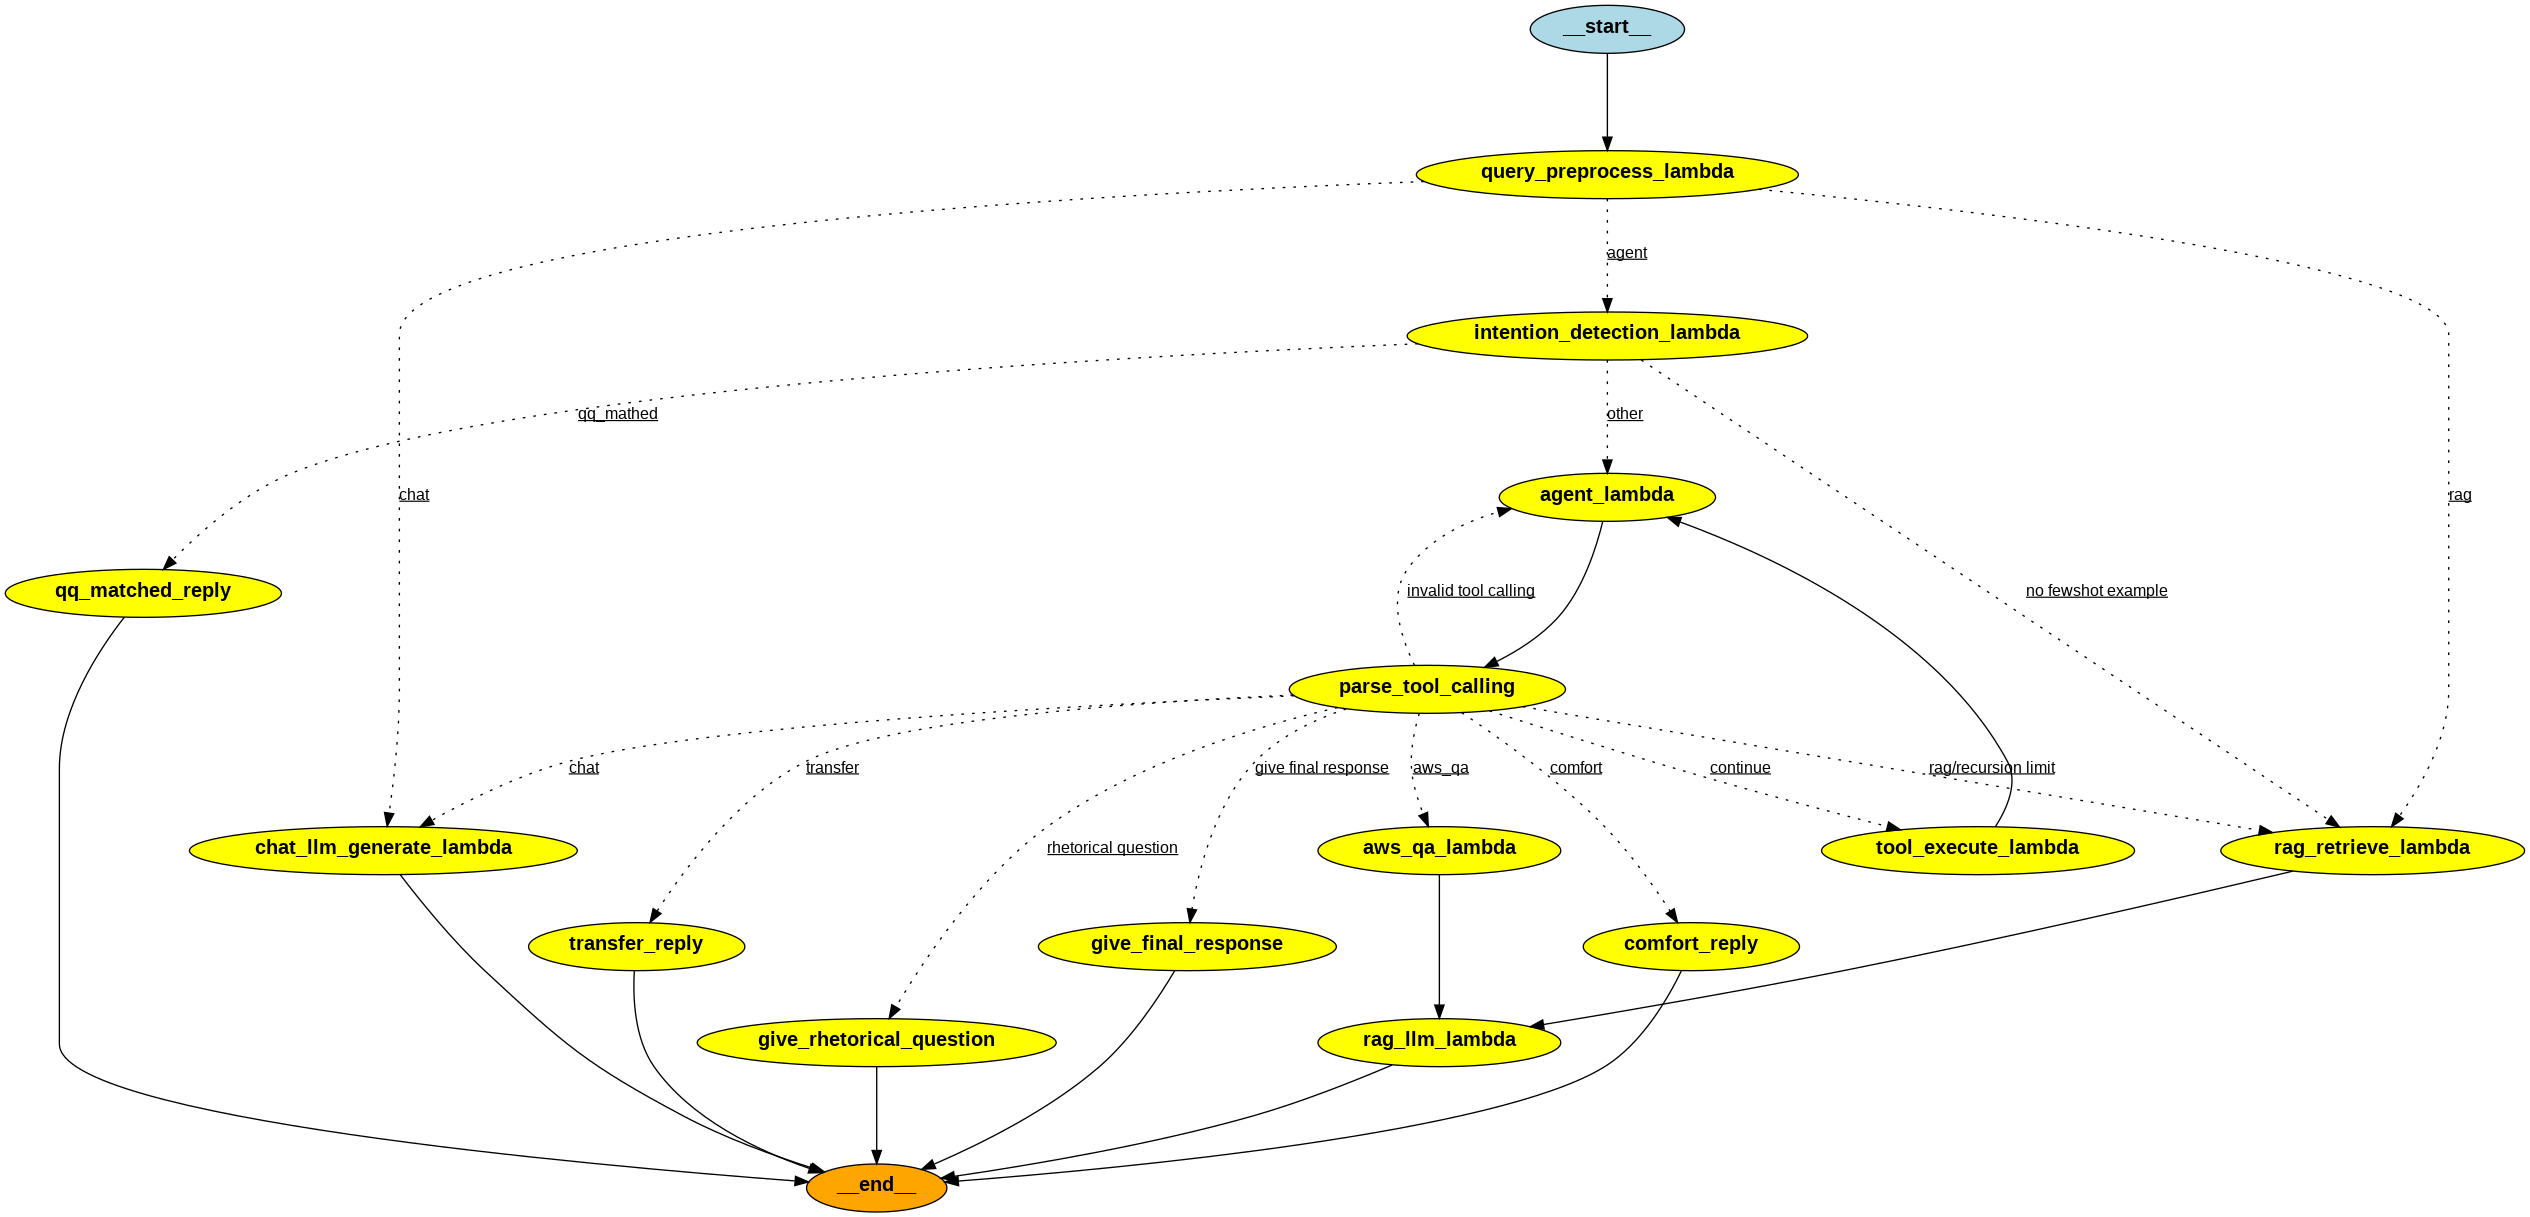
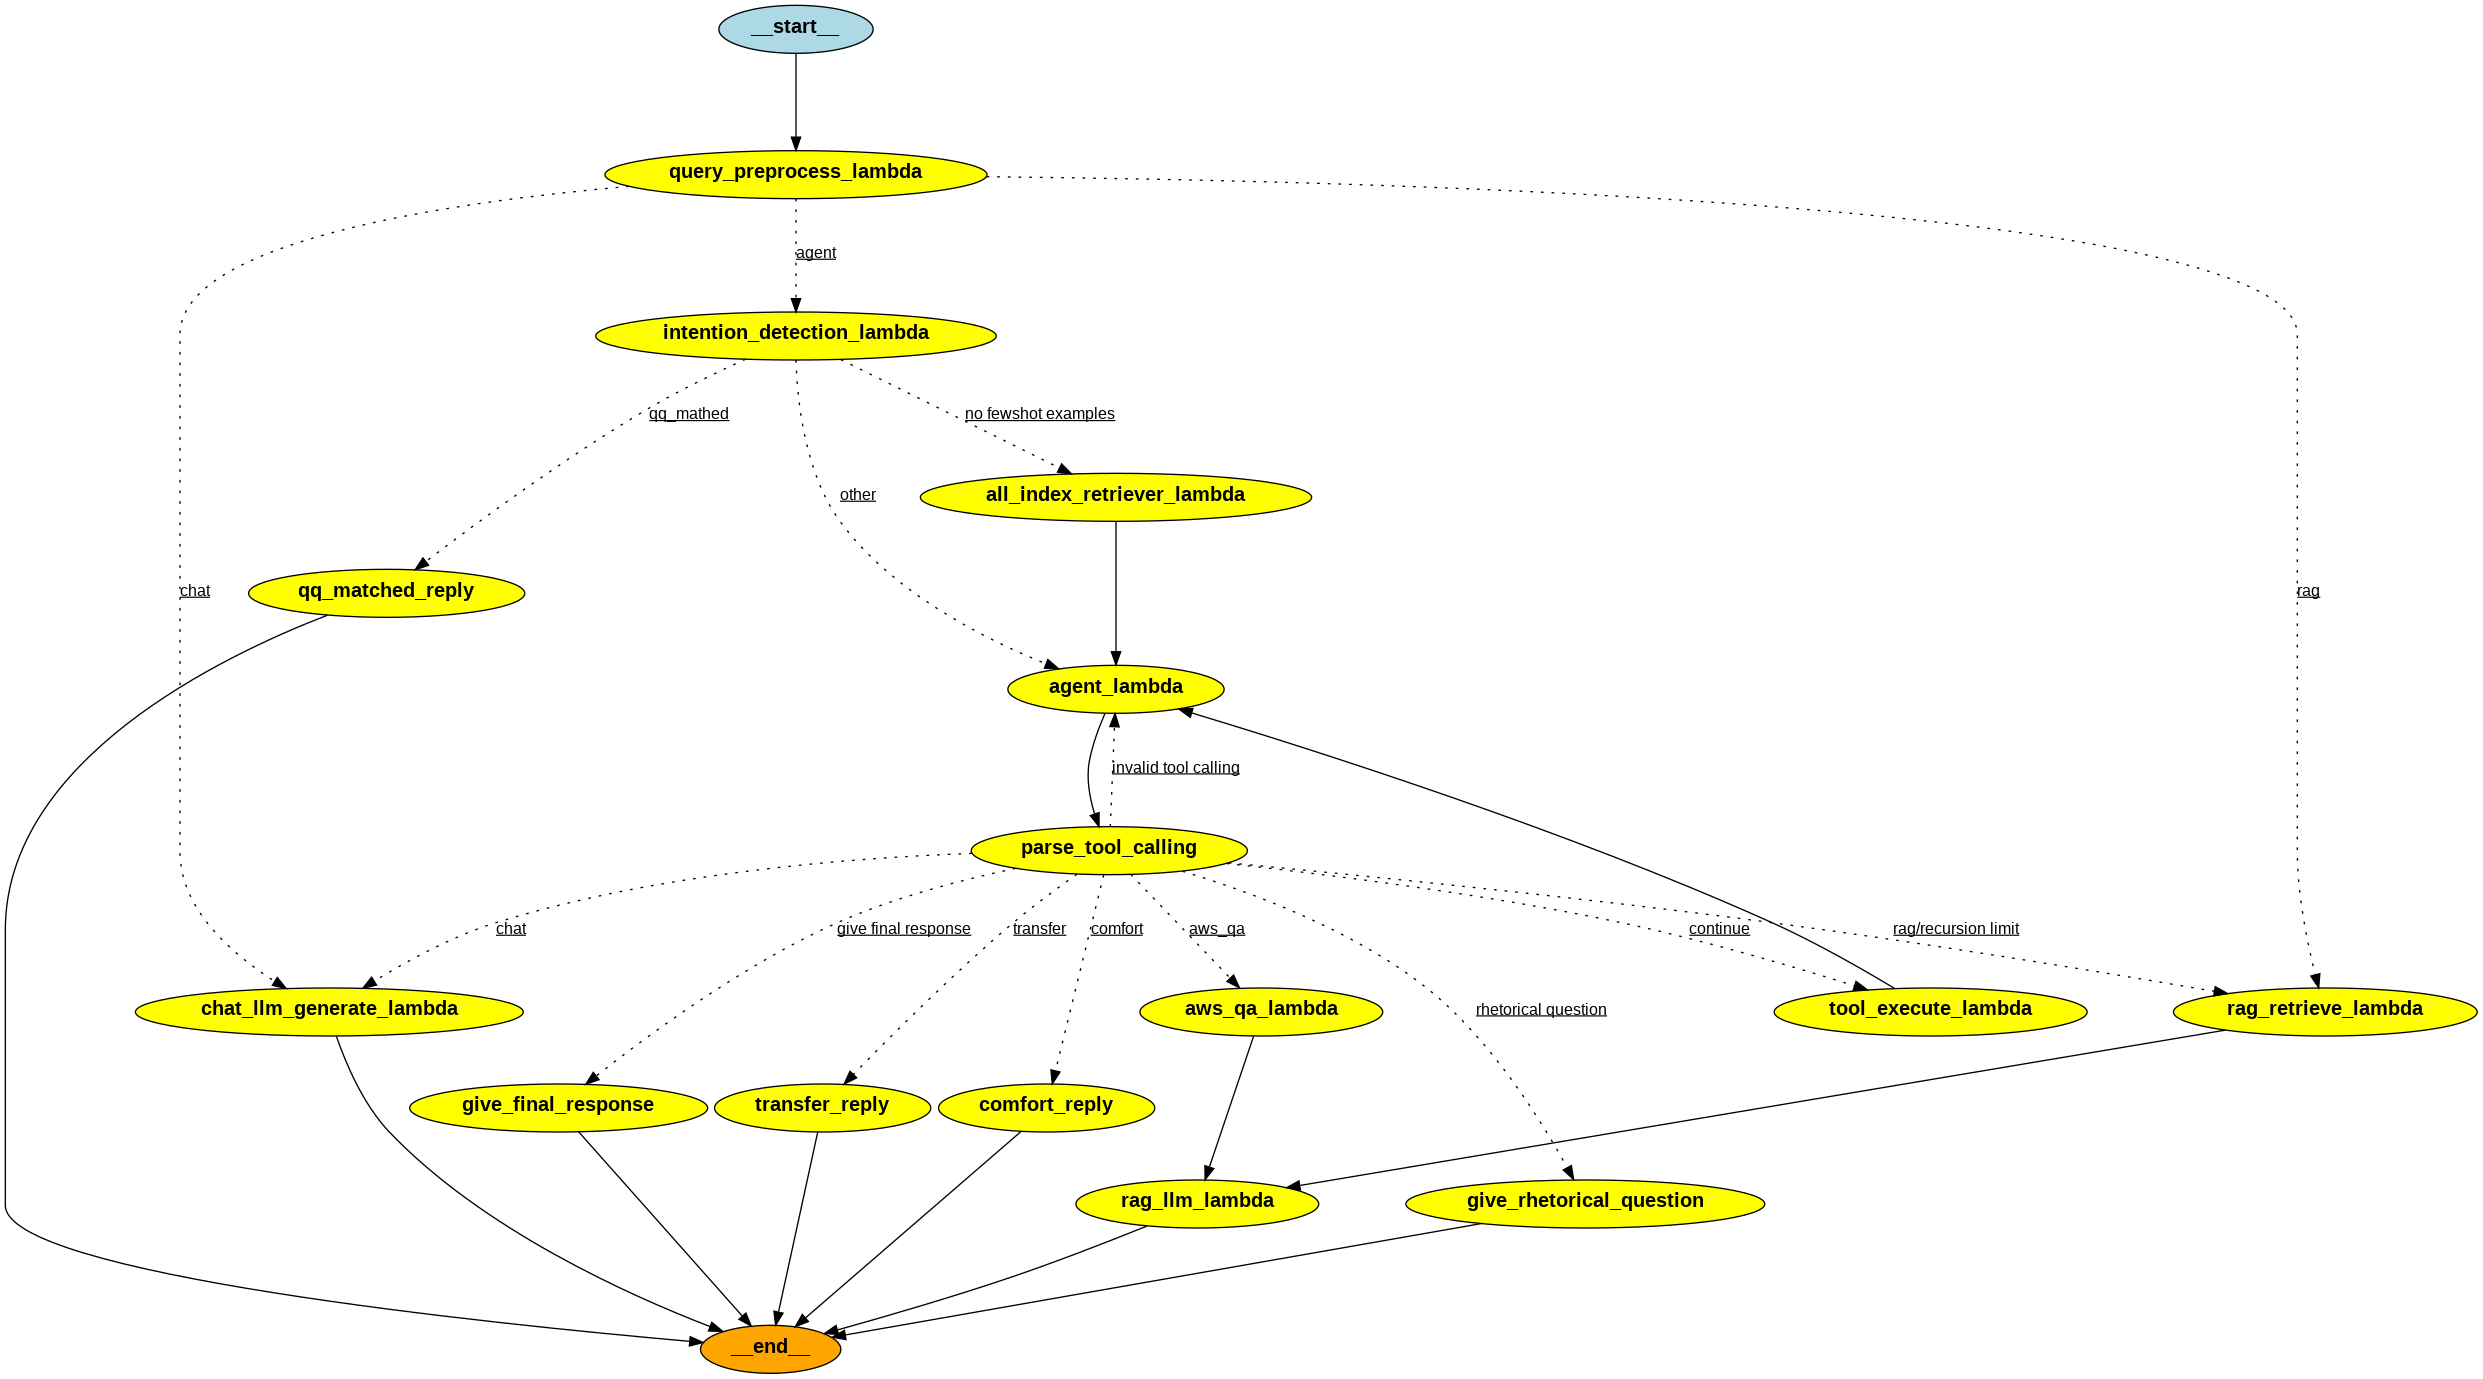
modify agent logic

diff --git a/source/lambda/online/lambda_main/main_utils/online_entries/common_entry.py b/source/lambda/online/lambda_main/main_utils/online_entries/common_entry.py
@@ -41,6 +41,7 @@ class ChatbotState(TypedDict):
     current_monitor_infos: str
     extra_response: Annotated[dict, update_nest_dict]
     contexts: str = None
+    all_index_retriever_contexts: list
     current_intent_tools: list  #
     current_tool_calls: list
     current_agent_tools_def: list[dict]
@@ -97,8 +98,30 @@ def intention_detection_lambda(state: ChatbotState):
     }
 
 
+
+@node_monitor_wrapper
+def all_index_retriever_lambda(state: ChatbotState):
+    # call retrivever
+    retriever_params = state["chatbot_config"]["all_index_retriever_config"]
+    retriever_params["query"] = state["query"]
+    output: str = invoke_lambda(
+        event_body=retriever_params,
+        lambda_name="Online_Function_Retriever",
+        lambda_module_path="functions.lambda_retriever.retriever",
+        handler_name="lambda_handler",
+    )
+    contexts = [doc["page_content"] for doc in output["result"]["docs"]]
+    send_trace("**all index retriever lambda result** \n" + ("\n"+"="*50 + "\n").join(contexts))
+    return {"all_index_retriever_contexts": contexts}
+
+
 @node_monitor_wrapper
 def agent_lambda(state: ChatbotState):
+    system_prompt = get_common_system_prompt()
+    all_index_retriever_contexts = state.get("all_index_retriever_contexts",[])
+    if all_index_retriever_contexts:
+        context = '\n\n'.join(all_index_retriever_contexts)
+        system_prompt += f"\n下面有一些背景信息供参考:\n<context>\n{context}\n</context>\n"
     output:dict = invoke_lambda(
         event_body={
             **state,
@@ -398,6 +421,7 @@ def build_graph():
     # add all nodes
     workflow.add_node("query_preprocess_lambda", query_preprocess_lambda)
     workflow.add_node("intention_detection_lambda", intention_detection_lambda)
+    workflow.add_node("all_index_retriever_lambda", all_index_retriever_lambda)
     workflow.add_node("agent_lambda", agent_lambda)
     workflow.add_node("tool_execute_lambda", tool_execute_lambda)
     workflow.add_node("chat_llm_generate_lambda", chat_llm_generate_lambda)
@@ -415,7 +439,8 @@ def build_graph():
     # add all edges
     workflow.set_entry_point("query_preprocess_lambda")
     # workflow.add_edge("query_preprocess_lambda","intention_detection_lambda")
-    workflow.add_edge("intention_detection_lambda", "agent_lambda")
+    # workflow.add_edge("intention_detection_lambda", "agent_lambda")
+    workflow.add_edge("all_index_retriever_lambda","agent_lambda")
     workflow.add_edge("tool_execute_lambda", "agent_lambda")
     workflow.add_edge("rag_retrieve_lambda", "rag_llm_lambda")
     workflow.add_edge("aws_qa_lambda", "rag_llm_lambda")
@@ -449,7 +474,7 @@ def build_graph():
         {
             "other": "agent_lambda",
             "qq_mathed": "qq_matched_reply",
-            "no fewshot example": "rag_retrieve_lambda"
+            "no fewshot examples": "all_index_retriever_lambda"
         },
     )
 

diff --git a/source/lambda/online/common_logic/common_utils/lambda_invoke_utils.py b/source/lambda/online/common_logic/common_utils/lambda_invoke_utils.py
@@ -257,7 +257,7 @@ def node_monitor_wrapper(fn: Optional[Callable[..., Any]] = None, *, monitor_key
             if current_monitor_infos is not None:
                 send_trace(f"\n\n {current_monitor_infos}", current_stream_use, ws_connection_id, enable_trace)
             exit_time = time.time()
-            send_trace(f"\n\n **Exit {func.__name__}**, elapsed time: {round(exit_time-enter_time)} s", current_stream_use, ws_connection_id, enable_trace)
+            send_trace(f"\n\n **Exit {func.__name__}**, elapsed time: {round((exit_time-enter_time)*100)/100} s", current_stream_use, ws_connection_id, enable_trace)
             return output
 
         return wrapper

diff --git a/source/lambda/online/lambda_main/main_utils/parse_config.py b/source/lambda/online/lambda_main/main_utils/parse_config.py
@@ -71,6 +71,18 @@ def parse_common_entry_config(chatbot_config):
         "chat_config": {
             **default_llm_config,
         },
+        "all_index_retriever_config":{
+            "retrievers": [
+                    {
+                        "type": "qd",
+                        "workspace_ids": default_workspace_config["rag_workspace_ids"],
+                        "config": {
+                            "top_k": 5,
+                            "using_whole_doc": False,
+                        },
+                    },
+                ],
+        },
         "rag_config": {
             "retriever_config": {
                 "retrievers": [
